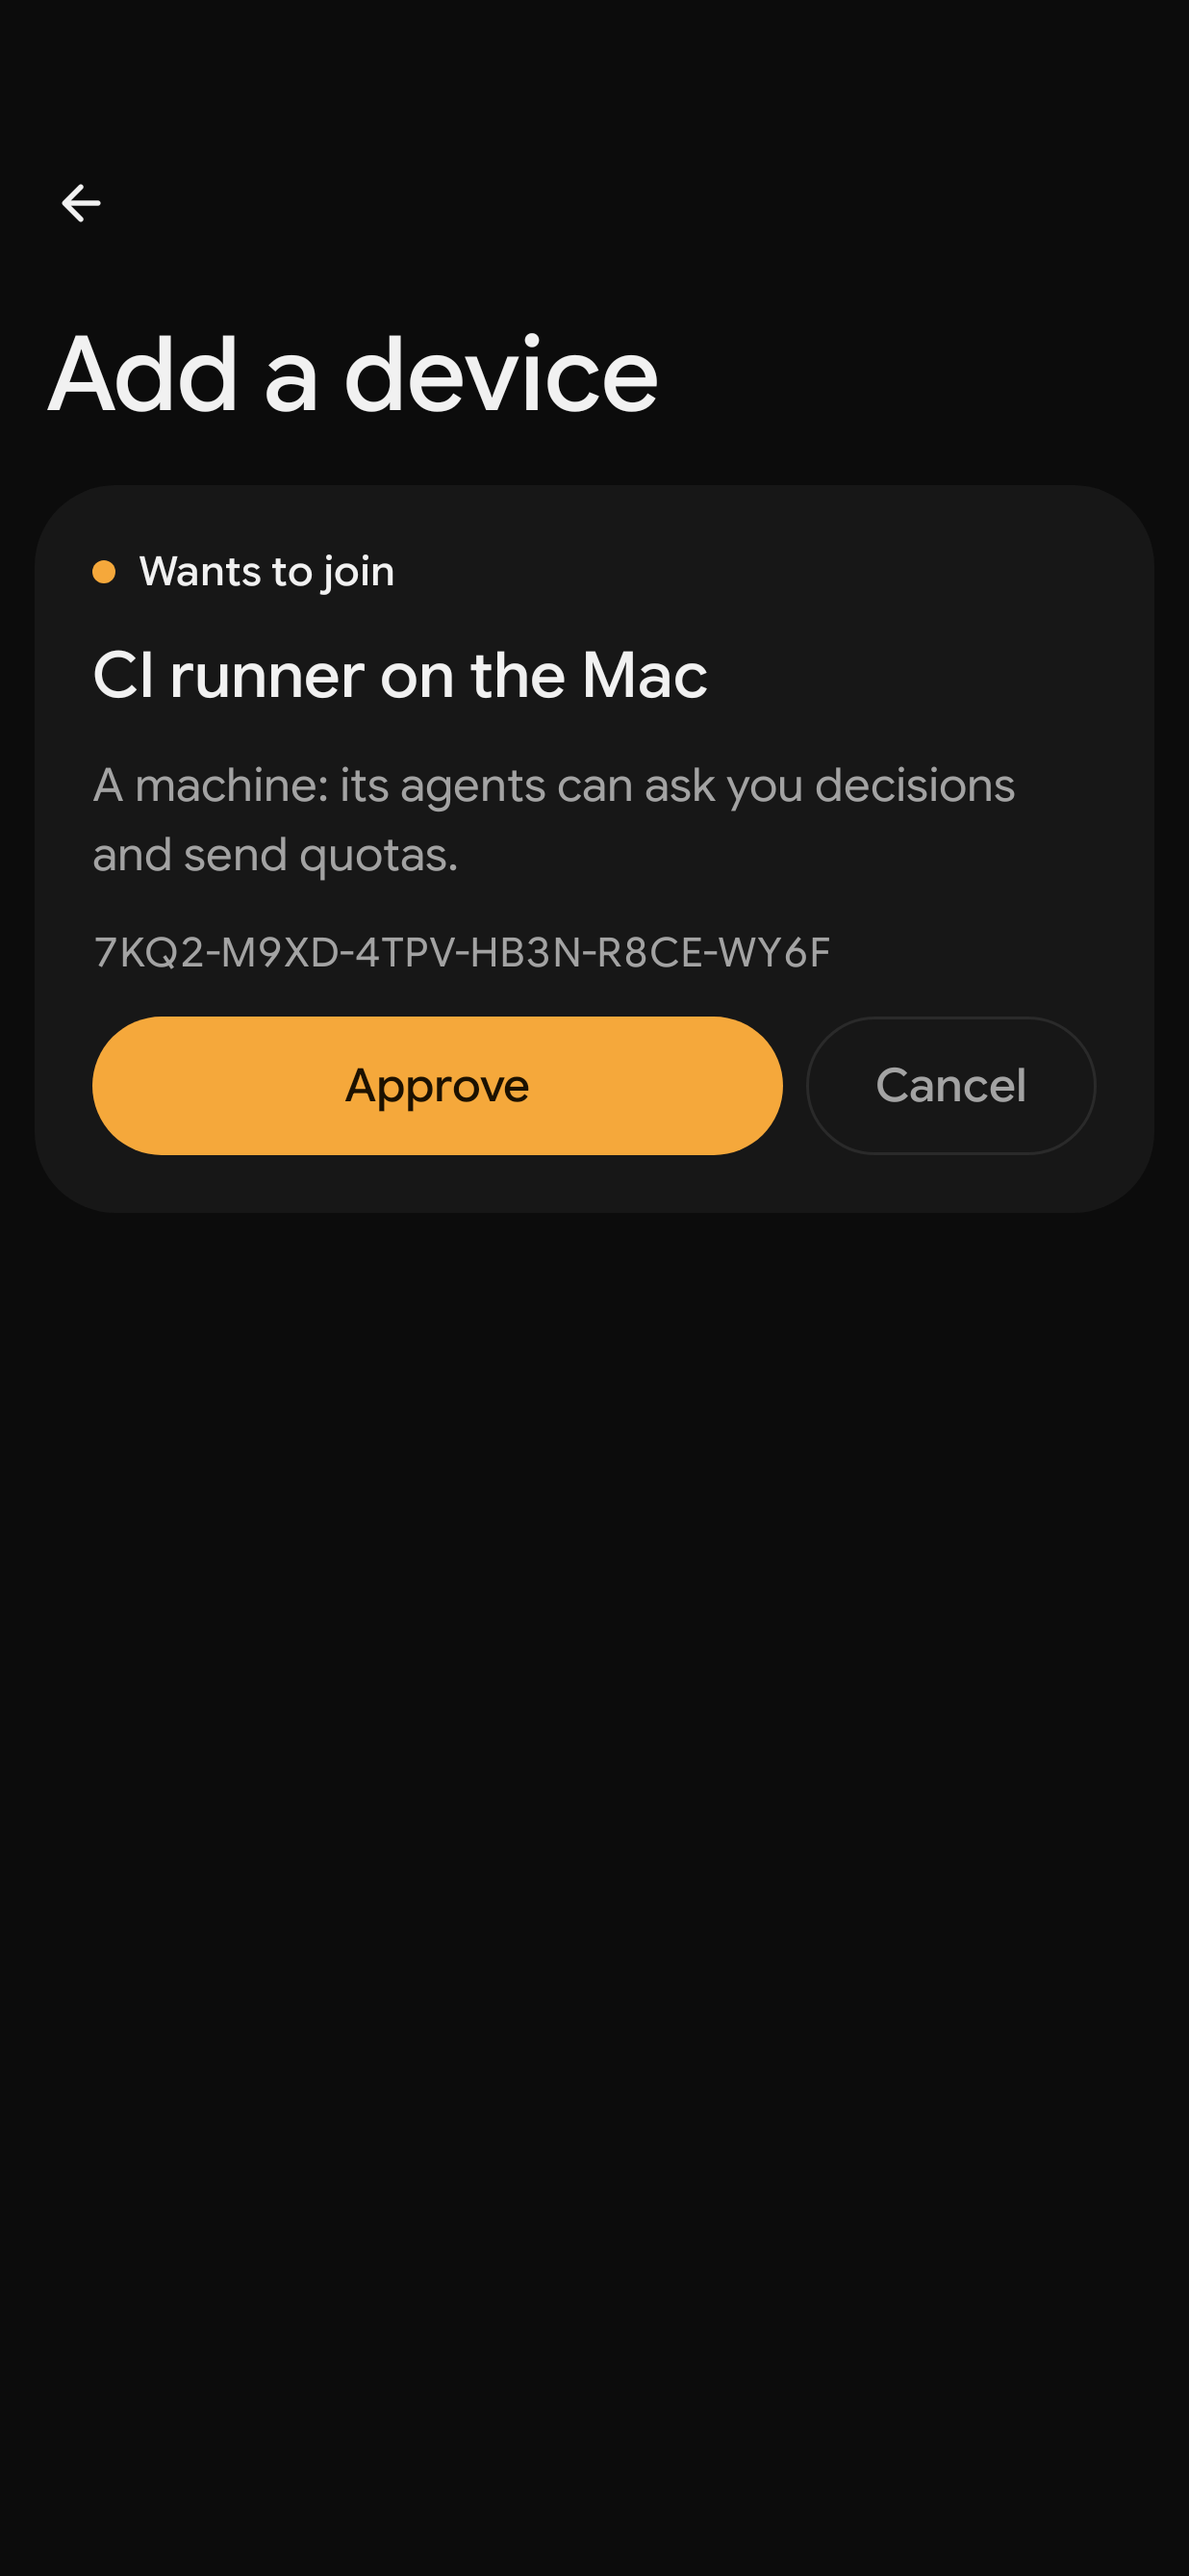
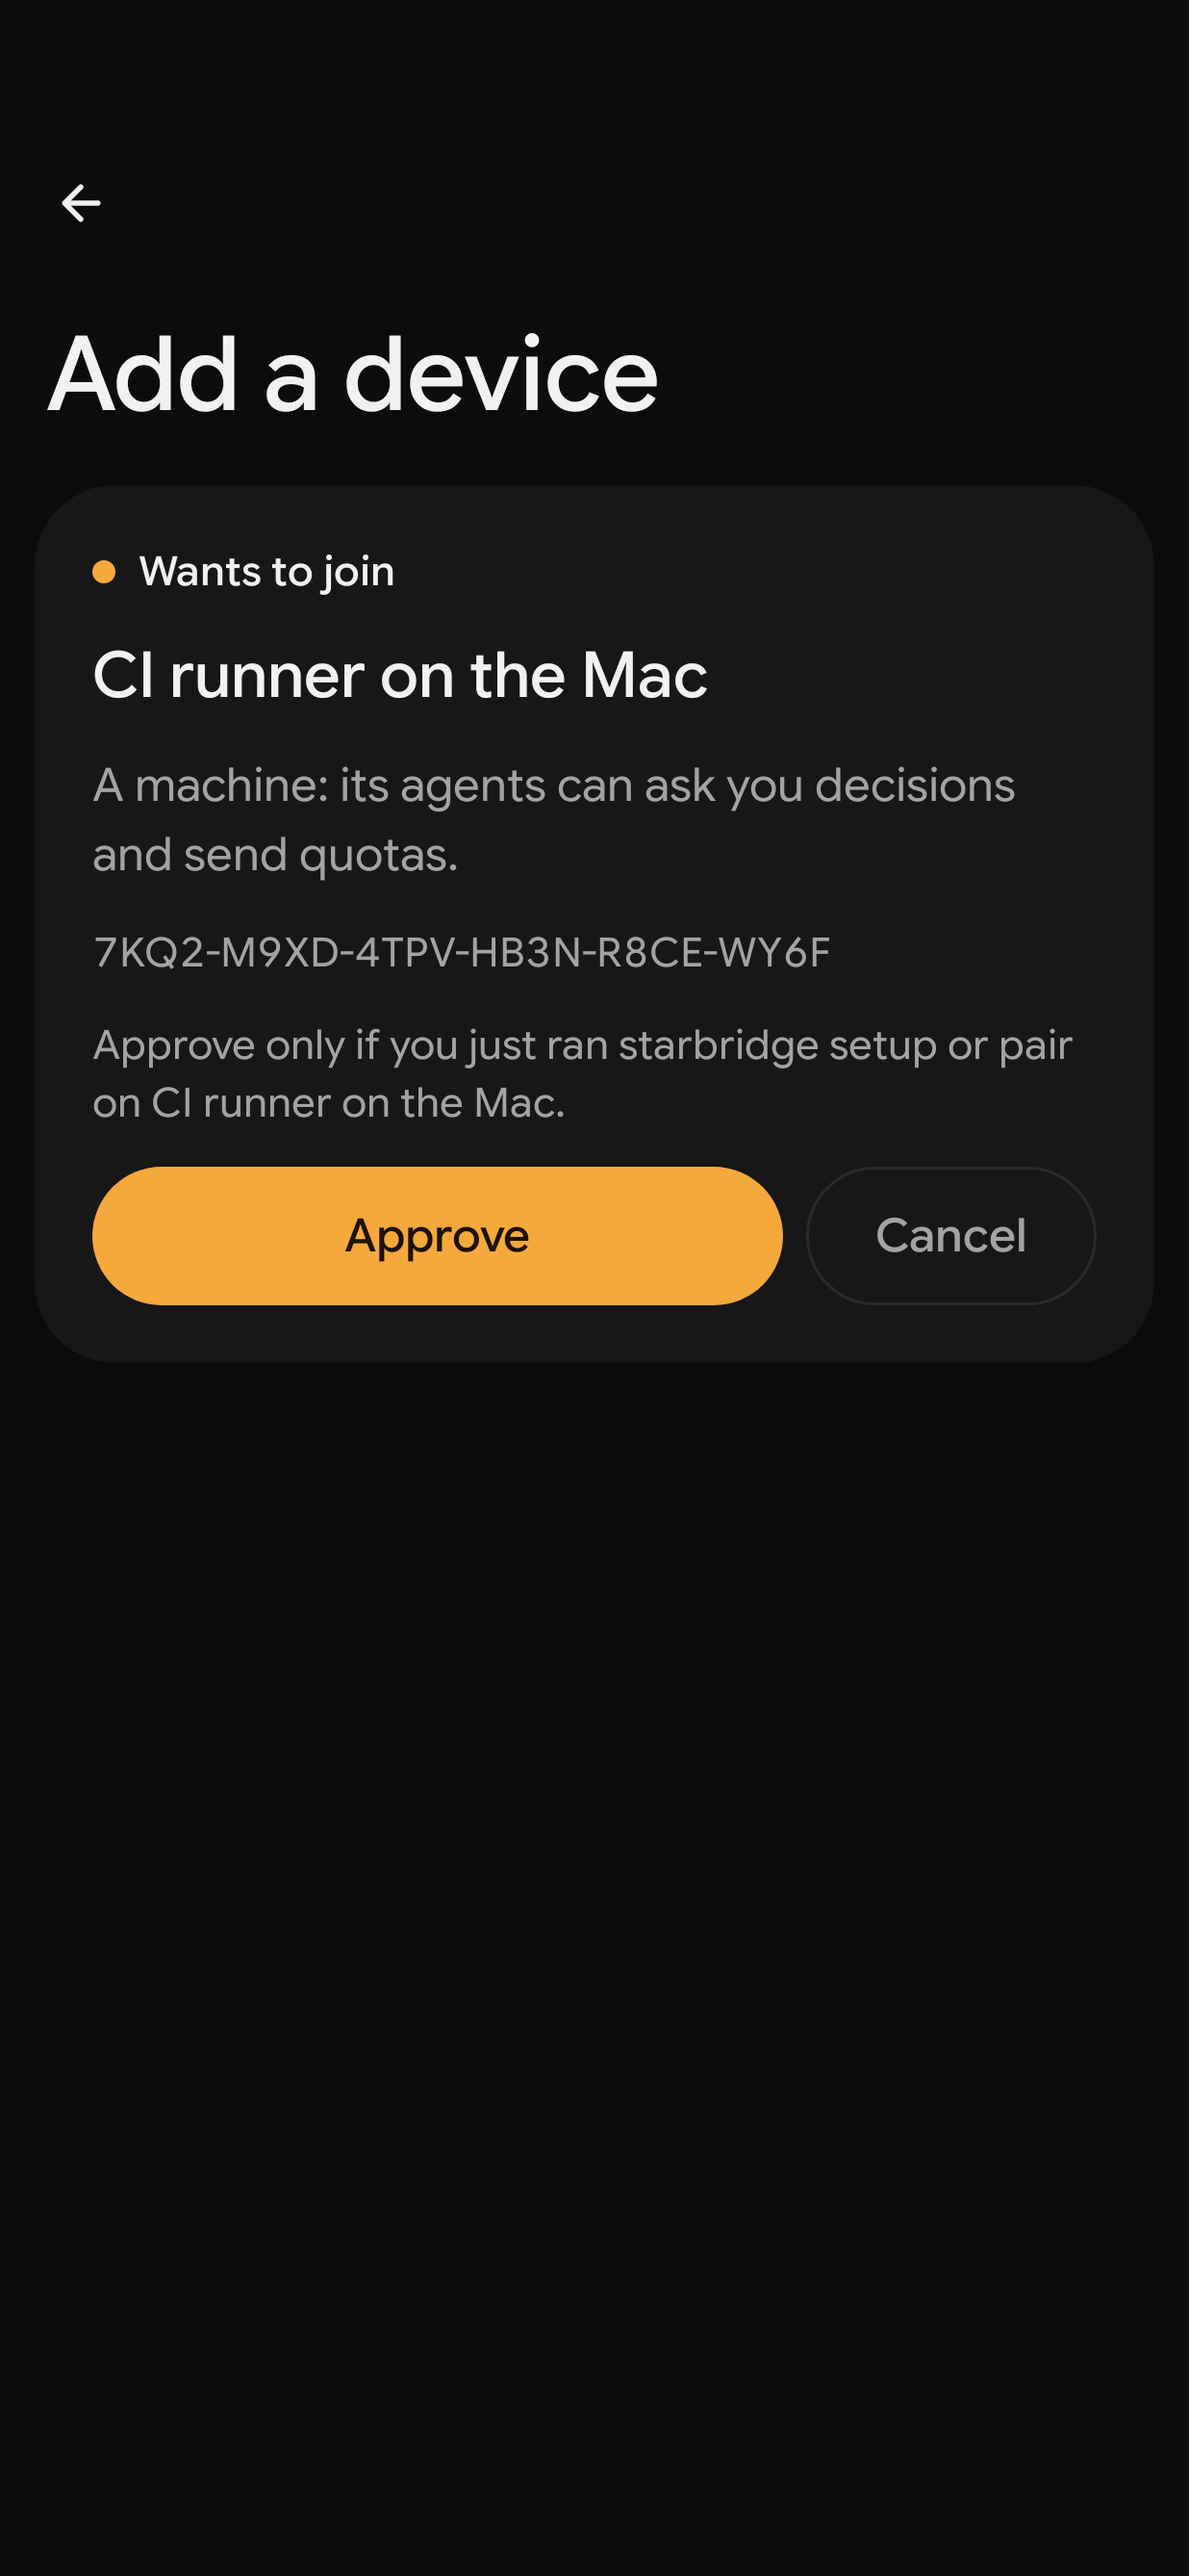
Android: approving a machine says what the web says, with its check code (#1377)
The request now says who to approve, as the web does. After a typed code
or link, the machine's terminal asks to compare its check code, so the
result shows it with what to do. Web and Android say it in one sentence:
press Enter in its terminal if it shows this code.

Changed region(s): [[0.0615, 0.3722, 0.6764, 0.5273], [0.7071, 0.4032, 0.8916, 0.4342], [0.7379, 0.4652, 0.8608, 0.4963]]

diff --git a/android/app/src/main/kotlin/dev/starbridge/app/ui/devices/DevicesScreen.kt b/android/app/src/main/kotlin/dev/starbridge/app/ui/devices/DevicesScreen.kt
@@ -263,6 +263,12 @@ fun PairCard(approval: Approval, actions: DeviceActions, otherWays: @Composable 
                             color = MaterialTheme.colorScheme.onSurfaceVariant,
                         )
                         Text(f.code, style = StarbridgeTheme.type.machine, color = MaterialTheme.colorScheme.onSurfaceVariant)
+                        // As on the web: who may be approved (#1377).
+                        Text(
+                            if (f.kind == Kind.Machine) "Approve only if you just ran starbridge setup or pair on ${f.name}." else "Approve only if ${f.name} scanned or showed this code.",
+                            style = StarbridgeTheme.type.small,
+                            color = MaterialTheme.colorScheme.onSurfaceVariant,
+                        )
                         Row(verticalAlignment = Alignment.CenterVertically) {
                             Button(
                                 onClick = actions.approve,
@@ -290,6 +296,15 @@ fun PairCard(approval: Approval, actions: DeviceActions, otherWays: @Composable 
                                 Icon(Icons.Rounded.CheckCircle, contentDescription = null, tint = colors.ok)
                                 Spacer(Modifier.width(Spacing.s2))
                                 Text("${state.name} joined.", style = StarbridgeTheme.type.body, color = MaterialTheme.colorScheme.onSurface)
+                            }
+                            // Its terminal waits on this comparison (#1377); the web's words.
+                            state.check?.let { check ->
+                                Text("Check code $check", style = StarbridgeTheme.type.machine, color = MaterialTheme.colorScheme.onSurface)
+                                Text(
+                                    "Press Enter in its terminal if it shows this code. If not, revoke ${state.name} under Devices.",
+                                    style = StarbridgeTheme.type.small,
+                                    color = MaterialTheme.colorScheme.onSurfaceVariant,
+                                )
                             }
                         }
                         Text("Add a machine or device", style = StarbridgeTheme.type.heading, color = MaterialTheme.colorScheme.onSurface)

diff --git a/android/app/src/test/kotlin/dev/starbridge/app/ScreenshotTest.kt b/android/app/src/test/kotlin/dev/starbridge/app/ScreenshotTest.kt
@@ -371,6 +371,7 @@ class ScreenshotTest(private val dark: Boolean) {
     @Test fun addDevice() = capture("add-device") { Phone(null, 0) { AddDeviceScreen(Approval.Idle, deviceActions) } }
 
     @Test fun addDeviceJoined() = capture("add-device-joined") { Phone(null, 0) { AddDeviceScreen(Approval.Done("Chrome on Mac"), deviceActions) } }
+    @Test fun addDeviceMachineJoined() = capture("add-device-machine-joined") { Phone(null, 0) { AddDeviceScreen(Approval.Done("CI runner on the Mac", check = "4KX7-91QM-ZD3P-8WHT"), deviceActions) } }
 
     @Test fun setupRecover() = capture("setup-recover", before = {
         compose.onNodeWithText("Use the recovery key").performClick()

diff --git a/android/app/src/main/kotlin/dev/starbridge/app/data/Model.kt b/android/app/src/main/kotlin/dev/starbridge/app/data/Model.kt
@@ -256,7 +256,11 @@ sealed interface Approval {
     data class Approving(val found: Found) : Approval
     /** This phone shows a QR code (a pairing link) and waits for a new phone to scan it. */
     data class Showing(val code: String, val link: String) : Approval
-    data class Done(val name: String) : Approval
+    /**
+     * [check]: a machine's check code, when it paired by a typed code or link and its terminal
+     * asks the owner to compare it (#1377); a scanned QR code needs none.
+     */
+    data class Done(val name: String, val check: String? = null) : Approval
     data class Failed(val message: String) : Approval
 }
 

diff --git a/web/src/components/AddDevice.tsx b/web/src/components/AddDevice.tsx
@@ -157,7 +157,7 @@ export function AddDevice() {
                             name: req.name,
                             icon: "desktop",
                             title: `${req.name} joined`,
-                            sub: `Its terminal shows a check code: press Enter there if it is this one. If not, revoke ${req.name} under Devices, as someone else may have its pairing code.`,
+                            sub: `Press Enter in its terminal if it shows this code. If not, revoke ${req.name} under Devices.`,
                             check,
                           }
                         : {

diff --git a/android/app/src/main/kotlin/dev/starbridge/app/data/ServerStore.kt b/android/app/src/main/kotlin/dev/starbridge/app/data/ServerStore.kt
@@ -1807,7 +1807,8 @@ class ServerStore(
             if (check != null) persist(saved.copy(scannedMachines = (saved.scannedMachines + body.id).distinct()))
             pending = null
             pendingCheckKey = null
-            approval.value = Approval.Done(body.name)
+            val compare = if (body.role == "machine" && check == null) runCatching { pairings.checkCode(saved.entries, body.id) }.getOrNull() else null
+            approval.value = Approval.Done(body.name, compare)
         } catch (e: Exception) {
             approval.value = Approval.Failed(describe(e))
         }

diff --git a/spec/keys-and-trust.md b/spec/keys-and-trust.md
@@ -38,7 +38,7 @@
   code never reached a browser on that path, and the owner should not have to do anything. Every
   other path (a browser, a typed code, Android 0.1.0) ends with the machine showing the whole
   code and asking `Same code? [Y/n]`, Enter for yes, if the Starbridge app shows the same; the
-  browser shows it too, after Approve, for an owner with no app. Tom chose one keypress over
+  browser shows it too, after Approve, for an owner with no app, and so does the Android app that approved a typed code or link, where the terminal waits on it (#1377). Tom chose one keypress over
   typing a group, and Enter over `y` (2026-10-08), accepting that an agent running setup, or a
   stray Enter, can confirm it. The QR code is text with no scheme, read by the app's own scanner
   as WhatsApp's in-app scan is (#1099): the check key lets the machine skip the question, so it
